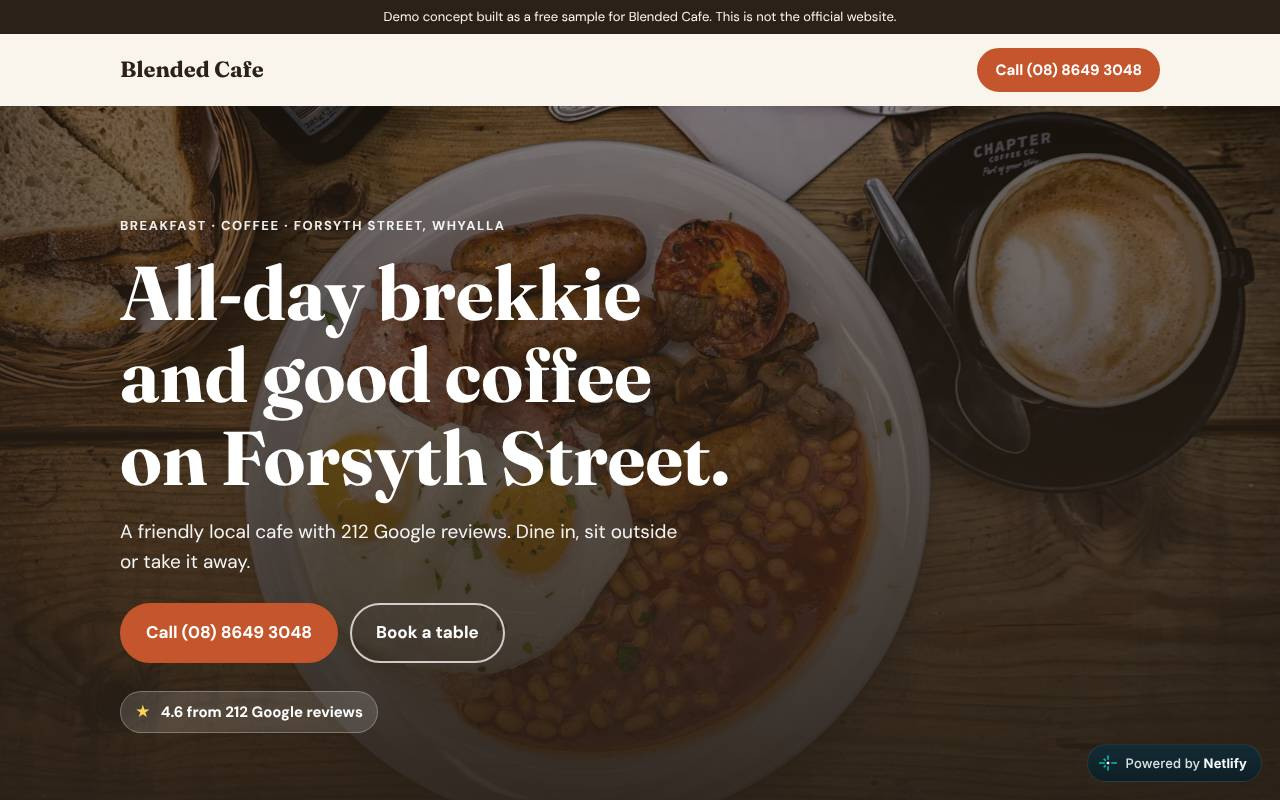
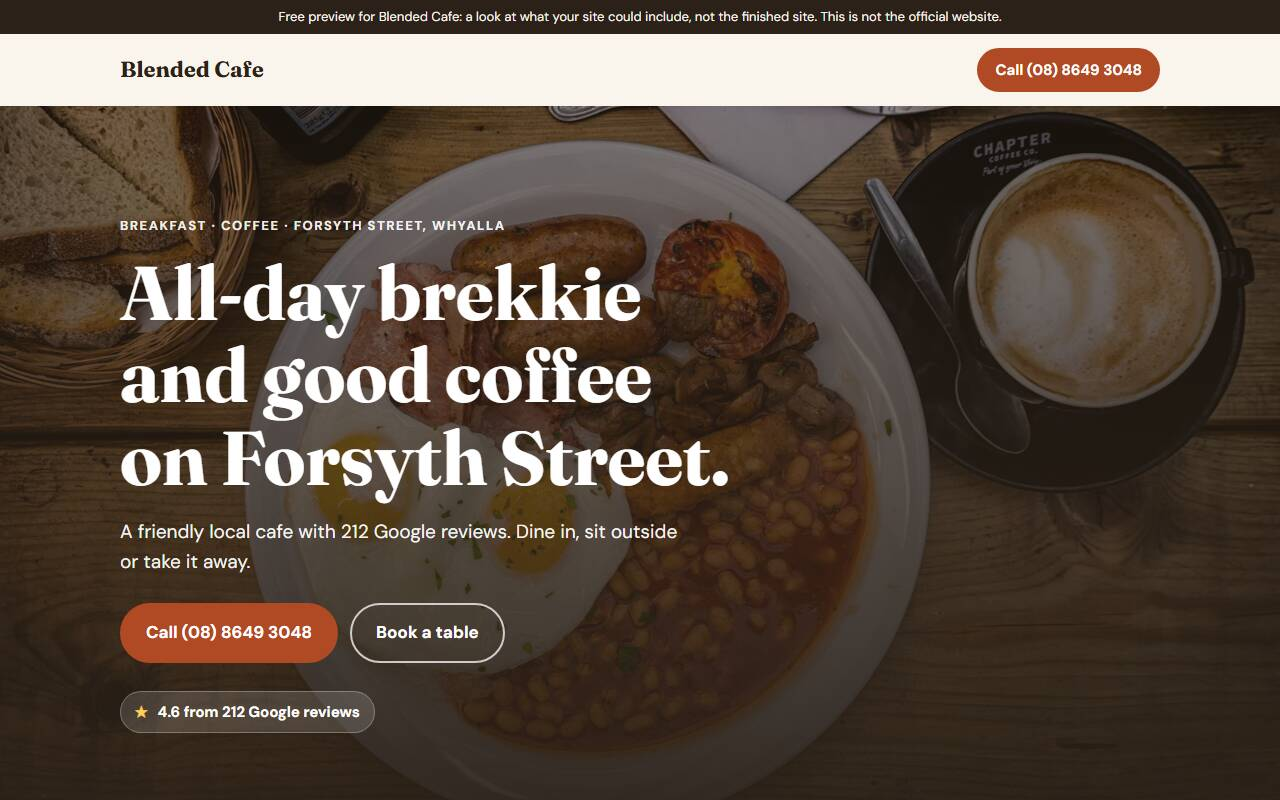
Demo design fixes: AA contrast for cafe and wash accents, accent bar instead of border on rounded cards, heading order on Work page

diff --git a/sales-pipeline/build.js b/sales-pipeline/build.js
@@ -17,11 +17,11 @@ const esc = (s) => String(s == null ? '' : s).replace(/&/g, '&amp;').replace(/</
 const THEMES = {
   lawn: { fonts: 'Barlow+Condensed:wght@600;700&family=Barlow:wght@400;500;600', hf: "'Barlow Condensed'", bf: "'Barlow'", bg: '#F4F6EF', surface: '#FFFFFF', ink: '#14261A', muted: '#566458', line: '#DDE3D6', accent: '#2E7D32', accentInk: '#FFFFFF', tint: '16,34,22', upper: true },
   'lawn-sun': { fonts: 'Bricolage+Grotesque:opsz,wght@12..96,400;12..96,500;12..96,600;12..96,800', hf: "'Bricolage Grotesque'", bf: "'Bricolage Grotesque'", bg: '#FFFBEA', surface: '#FFFFFF', ink: '#1F2A14', muted: '#5C6650', line: '#EADFB8', accent: '#F2B705', accentInk: '#1F2A14', accentText: '#7A5C00', tint: '26,38,16' },
-  cafe: { fonts: 'Fraunces:opsz,wght@9..144,500;9..144,700&family=DM+Sans:wght@400;500;700', hf: "'Fraunces'", bf: "'DM Sans'", bg: '#FAF5EC', surface: '#FFFFFF', ink: '#2B2118', muted: '#6B5D50', line: '#E8DCC8', accent: '#C4552D', accentInk: '#FFFFFF', tint: '43,33,24' },
+  cafe: { fonts: 'Fraunces:opsz,wght@9..144,500;9..144,700&family=DM+Sans:wght@400;500;700', hf: "'Fraunces'", bf: "'DM Sans'", bg: '#FAF5EC', surface: '#FFFFFF', ink: '#2B2118', muted: '#6B5D50', line: '#E8DCC8', accent: '#B04A25', accentInk: '#FFFFFF', tint: '43,33,24' },
   diner: { fonts: 'Oswald:wght@500;700&family=DM+Sans:wght@400;500;700', hf: "'Oswald'", bf: "'DM Sans'", bg: '#FFF7EE', surface: '#FFFFFF', ink: '#1B1B1F', muted: '#5F5A57', line: '#F0DDCB', accent: '#D7263D', accentInk: '#FFFFFF', tint: '40,10,16', upper: true, checker: true },
   detailing: { dark: true, fonts: 'Sora:wght@600;700&family=Albert+Sans:wght@400;500;600', hf: "'Sora'", bf: "'Albert Sans'", bg: '#0D1117', surface: '#161B22', ink: '#F0F3F6', muted: '#9BA7B4', line: '#27303B', accent: '#3BA7FF', accentInk: '#06131F', tint: '6,10,16' },
   mechanic: { dark: true, fonts: 'Barlow+Condensed:wght@600;700&family=Barlow:wght@400;500;600', hf: "'Barlow Condensed'", bf: "'Barlow'", bg: '#141618', surface: '#1D2023', ink: '#F3F1EC', muted: '#A6A39C', line: '#2E3236', accent: '#F28C28', accentInk: '#1A1206', tint: '12,13,14', upper: true },
-  wash: { fonts: 'Outfit:wght@600;700&family=Figtree:wght@400;500;600', hf: "'Outfit'", bf: "'Figtree'", bg: '#F2F8FC', surface: '#FFFFFF', ink: '#0C2A3A', muted: '#4F6675', line: '#D5E6F0', accent: '#0A7CC0', accentInk: '#FFFFFF', tint: '8,34,50' },
+  wash: { fonts: 'Outfit:wght@600;700&family=Figtree:wght@400;500;600', hf: "'Outfit'", bf: "'Figtree'", bg: '#F2F8FC', surface: '#FFFFFF', ink: '#0C2A3A', muted: '#4F6675', line: '#D5E6F0', accent: '#0A7CC0', accentInk: '#FFFFFF', accentText: '#0A6BA6', tint: '8,34,50' },
   sparky: { dark: true, fonts: 'Barlow+Condensed:wght@600;700&family=Barlow:wght@400;500;600', hf: "'Barlow Condensed'", bf: "'Barlow'", bg: '#0B1B2B', surface: '#12273C', ink: '#F4F7FA', muted: '#9FB3C6', line: '#1F3A55', accent: '#FFC629', accentInk: '#0B1B2B', tint: '8,20,34', upper: true },
   barber: { dark: true, fonts: 'Anton&family=Archivo:wght@400;500;600', hf: "'Anton'", bf: "'Archivo'", bg: '#0F0F10', surface: '#1A1A1C', ink: '#F5F2EA', muted: '#A8A39A', line: '#2B2B2E', accent: '#E0B04A', accentInk: '#14100A', tint: '10,10,10', upper: true },
   'barber-classic': { fonts: 'DM+Serif+Display&family=DM+Sans:wght@400;500;700', hf: "'DM Serif Display'", bf: "'DM Sans'", bg: '#F6F1E7', surface: '#FFFDF8', ink: '#1E2A22', muted: '#5E675F', line: '#E2D9C6', accent: '#8A2B2B', accentInk: '#FFFFFF', tint: '30,42,34' },
@@ -64,7 +64,7 @@ h2{font-size:clamp(30px,6.5vw,46px);margin-bottom:28px}
 .svc .n{flex:none;font-family:var(--hf);font-size:15px;font-weight:700;color:var(--accent-ink);background:var(--accent);width:34px;height:34px;border-radius:50%;display:grid;place-items:center;margin-top:2px}
 .fine{font-size:13.5px;color:var(--muted);margin:18px 0 0}
 .band{background:var(--surface);border-block:1px solid var(--line)}
-.theme h3{font-size:24px}.theme{border-top:4px solid var(--accent)}
+.theme h3{font-size:24px}.theme::before{content:"";display:block;width:36px;height:4px;border-radius:2px;background:var(--accent);margin-bottom:14px}
 .visit{display:grid;gap:22px}
 table.hours{width:100%;border-collapse:collapse;font-size:17px}
 table.hours td{padding:12px 0;border-bottom:1px solid var(--line)}table.hours td:last-child{text-align:right;font-weight:600}
@@ -225,7 +225,7 @@ header a{text-decoration:none;color:inherit}nav{float:right;font:500 15px 'Brico
 .btn{display:inline-block;background:#17202A;color:#fff;text-decoration:none;font-weight:600;border-radius:999px;padding:14px 24px;margin-top:8px}
 section{padding:40px 0;border-top:1px solid #E2DED4}h2{font-size:clamp(26px,5vw,36px);margin-bottom:18px}
 .cols{display:grid;gap:14px}.box{background:#fff;border:1px solid #E2DED4;border-radius:16px;padding:20px 22px}
-.box h3{font-size:20px;margin-bottom:6px}.box p{margin:0;color:#44505C}
+.box h2,.box h3{font-size:20px;margin-bottom:6px}.box p{margin:0;color:#44505C}
 .price{font-family:'Bricolage Grotesque';font-size:30px;font-weight:800;color:#17202A}
 ol{padding-left:20px;margin:0}li{margin-bottom:8px}
 .shot{aspect-ratio:4/3;background:#DAD5C8 center top/cover;border-radius:12px;margin-bottom:14px;border:1px solid #E2DED4}
@@ -277,7 +277,7 @@ function onePager() {
 
 function portfolio() {
   const picks = (config.portfolio || []).map((s) => prospects.find((p) => p.slug === s && p.stage !== 'final' && p.status !== 'do-not-contact')).filter(Boolean);
-  const cards = picks.map((p) => `<a class="box" style="text-decoration:none;color:inherit" href="/${p.slug}/"><div class="shot" style="background-image:url(/assets/shots/${p.slug}.jpg)"></div><h3>${esc(p.category)}, ${esc(p.town)} ${esc(p.state)}</h3><p>Demo concept for ${esc(p.name)}.</p></a>`).join('\n');
+  const cards = picks.map((p) => `<a class="box" style="text-decoration:none;color:inherit" href="/${p.slug}/"><div class="shot" style="background-image:url(/assets/shots/${p.slug}.jpg)"></div><h2>${esc(p.category)}, ${esc(p.town)} ${esc(p.state)}</h2><p>Demo concept for ${esc(p.name)}.</p></a>`).join('\n');
   return shell(`${studioName} | demo sites`, `
 <div class="wrap lead"><h1>Demo sites</h1>
 <p>These are unsolicited demo concepts built from each business's public listing. They are samples of our work, not paid client projects, and the businesses have not endorsed them.</p></div>

diff --git a/sales-pipeline/site/work/index.html b/sales-pipeline/site/work/index.html
@@ -8,9 +8,9 @@
 
 <div class="wrap lead"><h1>Demo sites</h1>
 <p>These are unsolicited demo concepts built from each business's public listing. They are samples of our work, not paid client projects, and the businesses have not endorsed them.</p></div>
-<section><div class="wrap"><div class="cols three"><a class="box" style="text-decoration:none;color:inherit" href="/blended-cafe/"><div class="shot" style="background-image:url(/assets/shots/blended-cafe.jpg)"></div><h3>Cafe, Whyalla SA</h3><p>Demo concept for Blended Cafe.</p></a>
-<a class="box" style="text-decoration:none;color:inherit" href="/kalgoorlie-mobile-detailing/"><div class="shot" style="background-image:url(/assets/shots/kalgoorlie-mobile-detailing.jpg)"></div><h3>Mobile car detailing, Kalgoorlie WA</h3><p>Demo concept for Kalgoorlie Mobile Detailing.</p></a>
-<a class="box" style="text-decoration:none;color:inherit" href="/mildura-lawn-mowing/"><div class="shot" style="background-image:url(/assets/shots/mildura-lawn-mowing.jpg)"></div><h3>Lawn care service, Mildura VIC</h3><p>Demo concept for Mildura Lawn Mowing.</p></a></div></div></section>
+<section><div class="wrap"><div class="cols three"><a class="box" style="text-decoration:none;color:inherit" href="/blended-cafe/"><div class="shot" style="background-image:url(/assets/shots/blended-cafe.jpg)"></div><h2>Cafe, Whyalla SA</h2><p>Demo concept for Blended Cafe.</p></a>
+<a class="box" style="text-decoration:none;color:inherit" href="/kalgoorlie-mobile-detailing/"><div class="shot" style="background-image:url(/assets/shots/kalgoorlie-mobile-detailing.jpg)"></div><h2>Mobile car detailing, Kalgoorlie WA</h2><p>Demo concept for Kalgoorlie Mobile Detailing.</p></a>
+<a class="box" style="text-decoration:none;color:inherit" href="/mildura-lawn-mowing/"><div class="shot" style="background-image:url(/assets/shots/mildura-lawn-mowing.jpg)"></div><h2>Lawn care service, Mildura VIC</h2><p>Demo concept for Mildura Lawn Mowing.</p></a></div></div></section>
 <section><div class="wrap"><h2>Want one for your business?</h2><p>Email <a href="mailto:nathanieljohnnicovisaya@gmail.com">nathanieljohnnicovisaya@gmail.com</a>. Nathaniel Visaya, Visaya Web Studio, Antipolo City, Philippines.</p></div></section>
 <div class="wrap"><footer>Visaya Web Studio is a small web-design studio based in Antipolo City, Philippines. We work remotely with local businesses overseas.</footer></div>
 </body></html>

diff --git a/sales-pipeline/site/assets/studio.css b/sales-pipeline/site/assets/studio.css
@@ -7,7 +7,7 @@ header a{text-decoration:none;color:inherit}nav{float:right;font:500 15px 'Brico
 .btn{display:inline-block;background:#17202A;color:#fff;text-decoration:none;font-weight:600;border-radius:999px;padding:14px 24px;margin-top:8px}
 section{padding:40px 0;border-top:1px solid #E2DED4}h2{font-size:clamp(26px,5vw,36px);margin-bottom:18px}
 .cols{display:grid;gap:14px}.box{background:#fff;border:1px solid #E2DED4;border-radius:16px;padding:20px 22px}
-.box h3{font-size:20px;margin-bottom:6px}.box p{margin:0;color:#44505C}
+.box h2,.box h3{font-size:20px;margin-bottom:6px}.box p{margin:0;color:#44505C}
 .price{font-family:'Bricolage Grotesque';font-size:30px;font-weight:800;color:#17202A}
 ol{padding-left:20px;margin:0}li{margin-bottom:8px}
 .shot{aspect-ratio:4/3;background:#DAD5C8 center top/cover;border-radius:12px;margin-bottom:14px;border:1px solid #E2DED4}

diff --git a/sales-pipeline/site/blended-cafe/index.html b/sales-pipeline/site/blended-cafe/index.html
@@ -10,7 +10,7 @@
 <link href="https://fonts.googleapis.com/css2?family=Fraunces:opsz,wght@9..144,500;9..144,700&family=DM+Sans:wght@400;500;700&display=swap" rel="stylesheet">
 <link rel="stylesheet" href="../assets/demo.css">
 </head>
-<body style="--bg:#FAF5EC;--surface:#FFFFFF;--ink:#2B2118;--muted:#6B5D50;--line:#E8DCC8;--accent:#C4552D;--accent-ink:#FFFFFF;--accent-text:#C4552D;--tint:43,33,24;--hf:'Fraunces';--bf:'DM Sans'" class="">
+<body style="--bg:#FAF5EC;--surface:#FFFFFF;--ink:#2B2118;--muted:#6B5D50;--line:#E8DCC8;--accent:#B04A25;--accent-ink:#FFFFFF;--accent-text:#B04A25;--tint:43,33,24;--hf:'Fraunces';--bf:'DM Sans'" class="">
 <div class="ribbon">Free preview for Blended Cafe: a look at what your site could include, not the finished site. This is not the official website.</div>
 <header class="top">
   <a class="brand" href="#top">Blended Cafe</a>

diff --git a/sales-pipeline/site/dubbo-exterior-cleaning/index.html b/sales-pipeline/site/dubbo-exterior-cleaning/index.html
@@ -10,7 +10,7 @@
 <link href="https://fonts.googleapis.com/css2?family=Outfit:wght@600;700&family=Figtree:wght@400;500;600&display=swap" rel="stylesheet">
 <link rel="stylesheet" href="../assets/demo.css">
 </head>
-<body style="--bg:#F2F8FC;--surface:#FFFFFF;--ink:#0C2A3A;--muted:#4F6675;--line:#D5E6F0;--accent:#0A7CC0;--accent-ink:#FFFFFF;--accent-text:#0A7CC0;--tint:8,34,50;--hf:'Outfit';--bf:'Figtree'" class="">
+<body style="--bg:#F2F8FC;--surface:#FFFFFF;--ink:#0C2A3A;--muted:#4F6675;--line:#D5E6F0;--accent:#0A7CC0;--accent-ink:#FFFFFF;--accent-text:#0A6BA6;--tint:8,34,50;--hf:'Outfit';--bf:'Figtree'" class="">
 <div class="ribbon">Free preview for Dubbo Exterior Cleaning: a look at what your site could include, not the finished site. This is not the official website.</div>
 <header class="top">
   <a class="brand" href="#top">Dubbo Exterior Cleaning</a>

diff --git a/sales-pipeline/site/assets/demo.css b/sales-pipeline/site/assets/demo.css
@@ -34,7 +34,7 @@ h2{font-size:clamp(30px,6.5vw,46px);margin-bottom:28px}
 .svc .n{flex:none;font-family:var(--hf);font-size:15px;font-weight:700;color:var(--accent-ink);background:var(--accent);width:34px;height:34px;border-radius:50%;display:grid;place-items:center;margin-top:2px}
 .fine{font-size:13.5px;color:var(--muted);margin:18px 0 0}
 .band{background:var(--surface);border-block:1px solid var(--line)}
-.theme h3{font-size:24px}.theme{border-top:4px solid var(--accent)}
+.theme h3{font-size:24px}.theme::before{content:"";display:block;width:36px;height:4px;border-radius:2px;background:var(--accent);margin-bottom:14px}
 .visit{display:grid;gap:22px}
 table.hours{width:100%;border-collapse:collapse;font-size:17px}
 table.hours td{padding:12px 0;border-bottom:1px solid var(--line)}table.hours td:last-child{text-align:right;font-weight:600}
